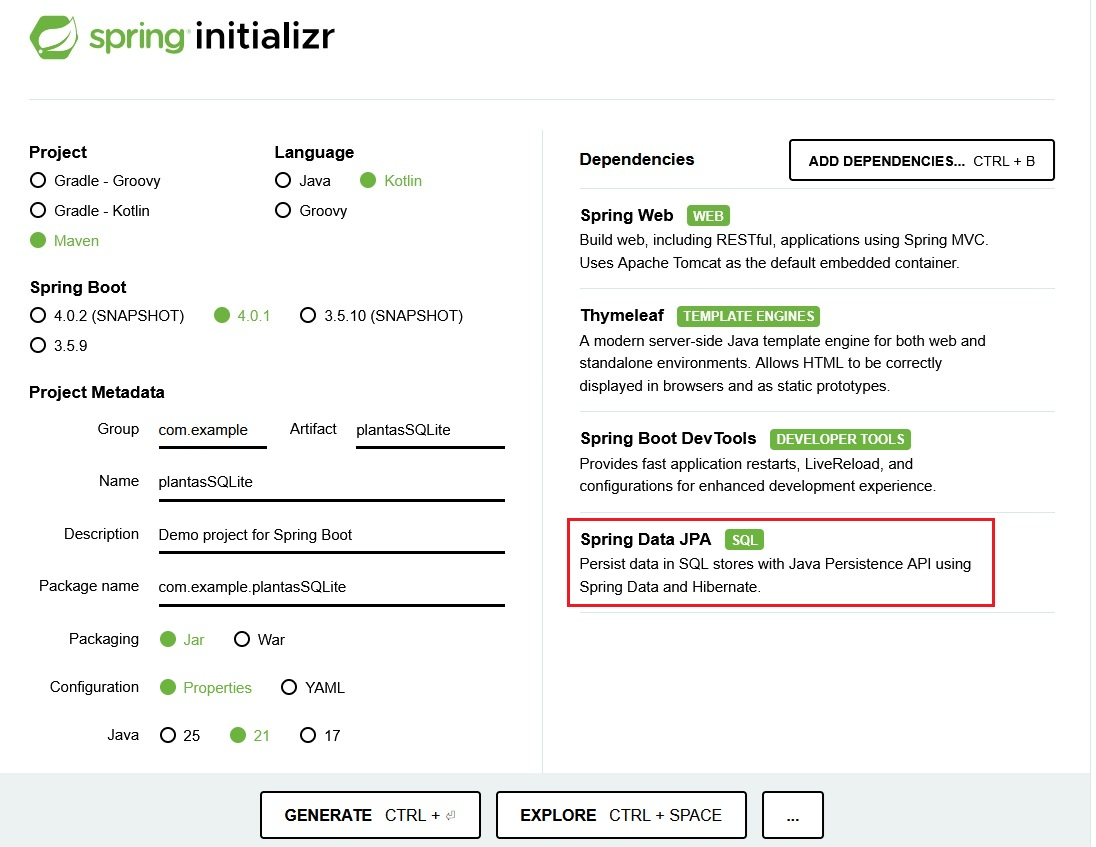
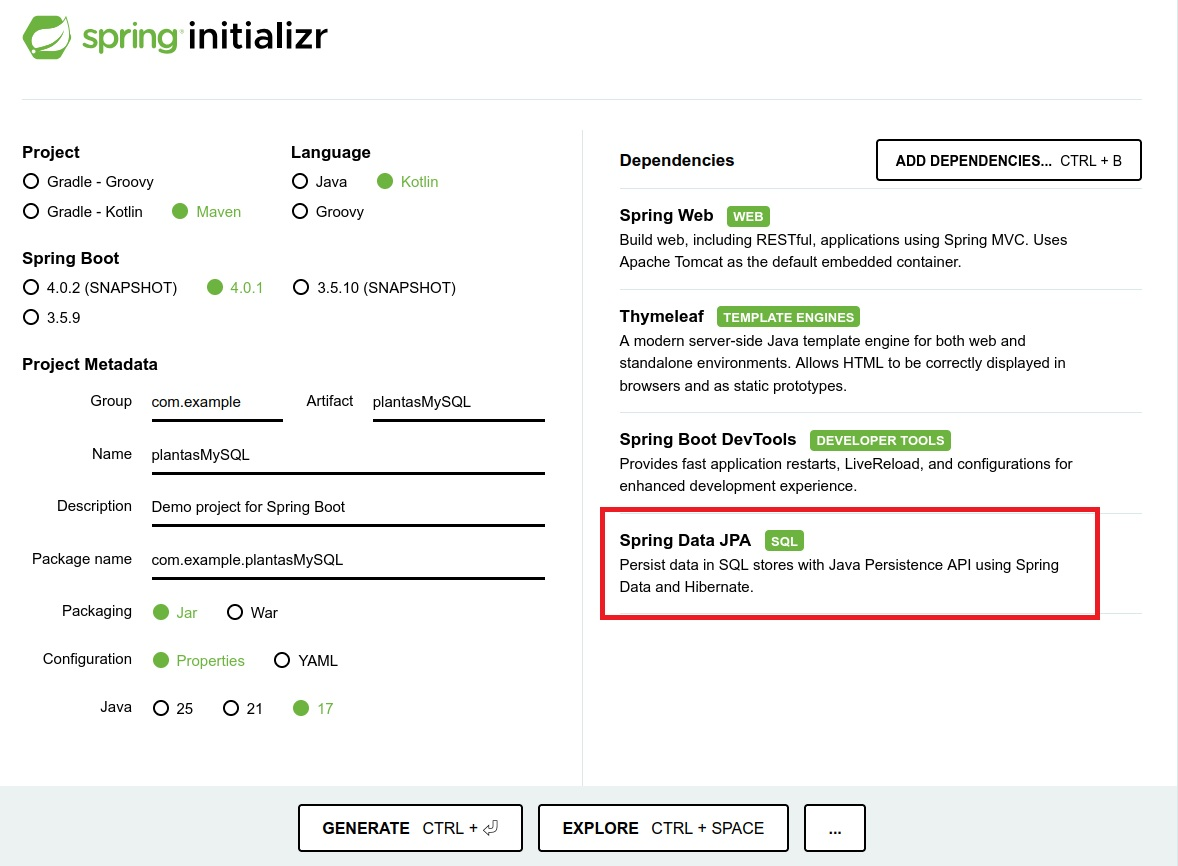
ene15

diff --git a/docs/4_Componentes.md b/docs/4_Componentes.md
@@ -1561,19 +1561,19 @@ Este mismo ejemplo utilizando convención de nombres quedaría así:
 * **findByJardinIdJardin:** Utiliza la convención de nombres para especificar que se desean encontrar plantas basándose en el idJardin del jardín asociado. Los nombres de los parámetros reflejan claramente los campos utilizados en la consulta.
 
 
-<!--
-<span class="mis_ejemplos">Ejemplo 4: CRUD con JPA y SQLite</span>
 
-En este proyecto vamos a almacenar la información de nuestras plantas en una BD SQLite y utilizar JPA para las operaciones CRUD. Los pasos para desarrollar la aplicación son los siguientes:
+<span class="mis_ejemplos">Ejemplo 4: CRUD con JPA y MySQL</span>
+
+En este proyecto vamos a almacenar la información de nuestras plantas en una BD MySQL y utilizar JPA para las operaciones CRUD. Los pasos para desarrollar la aplicación son los siguientes:
 
 
 <span class="mi_sombreado">**PASO 1: Crear el proyecto**</span>
 
-Creamos un nuevo proyecto llamado `plantasSQLite` utilizando Spring Initializr. En este caso añadimos la dependencia JPA como se ve en la imagen siguiente:
+Creamos un nuevo proyecto llamado `plantasMySQL` utilizando Spring Initializr. En este caso añadimos la dependencia JPA como se ve en la imagen siguiente:
 
 ![Spring 13](img/spring/spring13.jpg)
 
-Hay que tener cuidado si copiamos fragmentos de código del anterior ejemplo ya que habrá que cambiar en los imports `com.example.plantasCSV` por `com.example.plantasSQLite`
+Hay que tener cuidado si copiamos fragmentos de código del anterior ejemplo ya que habrá que cambiar en los imports `com.example.plantasCSV` por `com.example.plantasMySQL`
 
 
 <span class="mi_sombreado">**PASO 2: Añadir dependencias y configuración**</span>
@@ -1581,24 +1581,31 @@ Hay que tener cuidado si copiamos fragmentos de código del anterior ejemplo ya 
 Añadimos las siguientes líneas al archivo `pom.xml` dentro del bloque `<dependencies>`:
 
 ```xml
-<!-- SQLite Dependencies -->
+<!-- MySQL Connector -->
 <dependency>
-    <groupId>org.xerial</groupId>
-    <artifactId>sqlite-jdbc</artifactId>
-</dependency>
-<dependency>
-    <groupId>org.hibernate.orm</groupId>
-    <artifactId>hibernate-community-dialects</artifactId>
+    <groupId>com.mysql</groupId>
+    <artifactId>mysql-connector-j</artifactId>
+    <scope>runtime</scope>
 </dependency>
 ```
 
-Añadimos las siguientes líneas al archivo `application.properties`:
+Añadimos las siguientes líneas al archivo `application.properties` sustituyendo `BD` por el nombre de nuestra base de datos, `user` por el nombre de usuario y `pass` por la contraseña (los que creamos al montar el servidor y crear la base de datos):
 
 
 ```properties
-spring.datasource.url=jdbc:sqlite:plantas.db
-spring.datasource.driver-class-name=org.sqlite.JDBC 
-spring.jpa.database-platform=org.hibernate.community.dialect.SQLiteDialect
+# ===============================
+# DATASOURCE (MySQL)
+# ===============================
+spring.datasource.url=jdbc:mysql://localhost:3306/nom_BD?useSSL=false&allowPublicKeyRetrieval=true
+spring.datasource.username=user
+spring.datasource.password=pass
+spring.datasource.driver-class-name=com.mysql.cj.jdbc.Driver
+
+
+# ===============================
+# JPA / HIBERNATE
+# ===============================
+spring.jpa.database-platform=org.hibernate.dialect.MySQLDialect
 spring.jpa.hibernate.ddl-auto=update
 spring.jpa.show-sql=true
 ```
@@ -1608,18 +1615,18 @@ spring.jpa.show-sql=true
 
 Ahora nuestra clase Planta debe ser una entidad JPA. En Kotlin, JPA necesita un constructor vacío, por tanto, debemos asignar valores por defecto a todos los campos de la data class para que Kotlin genere ese constructor automáticamente.
 
-El contenido del archivo `src/main/kotlin/com/example/plantas/model/Planta.kt` es el siguiente:
+El contenido del archivo `src/main/kotlin/com/example/plantasMySQL/model/Planta.kt` es el siguiente:
 
 ```kotlin
-package com.example.plantasSQLite.model
+package com.example.plantasMySQL.model
 import jakarta.persistence.*
 
 @Entity
 @Table(name = "plantas")
 data class Planta(
-@Id
-@GeneratedValue(strategy = GenerationType.IDENTITY)
-var id_planta: Long? = null,
+    @Id
+    @GeneratedValue(strategy = GenerationType.IDENTITY)
+    var id_planta: Int? = null,
 
     @Column(nullable = false)
     var nombre: String = "",
@@ -1638,43 +1645,80 @@ var id_planta: Long? = null,
 
 <span class="mi_sombreado">**PASO 4: Añadir el repositorio**</span>
 
-El contenido del archivo `src/main/kotlin/com/example/plantas/repository/PlantaRepository.kt` es el siguiente:
+El contenido del archivo `src/main/kotlin/com/example/plantasMySQL/repository/PlantaRepository.kt` es el siguiente:
 
 ```kotlin
-package com.example.plantasSQLite.repository
+package com.example.plantasMySQL.repository
 
-import com.example.plantasSQLite.model.Planta
+import com.example.plantasMySQL.model.Planta
 import org.springframework.data.jpa.repository.JpaRepository
 import org.springframework.stereotype.Repository
 
 @Repository
-interface PlantaRepository : JpaRepository<Planta, Long>
+interface PlantaRepository : JpaRepository<Planta, Int>
 ```
 
 
 <span class="mi_sombreado">**PASO 5: Añadir el servicio**</span>
 
-El código del servicio se simplifica enormemente (ahora llamará a los métodos de PlantaRepository). El contenido del archivo `src/main/kotlin/com/example/plantas/service/PlantaService.kt` es el siguiente:
+El código del servicio se simplifica enormemente (ahora llamará a los métodos de PlantaRepository). El contenido del archivo `src/main/kotlin/com/example/plantasMySQL/service/PlantaService.kt` es el siguiente:
 
 ```kotlin
-package com.example.plantasSQLite.service
+package com.example.plantasMySQL.service
 
-import com.example.plantasSQLite.model.Planta
-import com.example.plantasSQLite.repository.PlantaRepository
+import com.example.plantasMySQL.model.Planta
+import com.example.plantasMySQL.repository.PlantaRepository
 import org.springframework.stereotype.Service
+import kotlin.compareTo
+
+import java.io.File
+import kotlin.collections.map
+import kotlin.io.readLines
+import kotlin.text.split
+import kotlin.text.toDouble
+
 
 @Service
 class PlantaService(private val repository: PlantaRepository) {
 
     fun listarPlantas(): List<Planta> = repository.findAll()
 
-    fun buscarPorId(id: Long): Planta? = repository.findById(id).orElse(null)
+    fun buscarPorId(id: Int): Planta? = repository.findById(id).orElse(null)
 
     fun guardar(planta: Planta): Planta = repository.save(planta)
 
-    fun borrar(id: Long) {
+    fun borrar(id: Int) {
         if (repository.existsById(id)) {
             repository.deleteById(id)
+        }
+    }
+
+
+    fun importarDesdeCSV() {
+
+        // 1. Verificar si ya hay datos para no duplicar (opcional)
+        //if (repository.count() > 0) return
+
+        // 2. Leer el fichero (Lógica del Ejemplo 3)
+        val filePath = "src/main/resources/data/plantas.csv"
+        val file = File(filePath)
+
+        if (file.exists()) {
+            println("el fichero existe")
+            val plantasLeidas = file.readLines().map { linea ->
+                val partes = linea.split(";")
+                // 3. Crear el objeto Planta (Lógica del Ejemplo 4)
+                // IMPORTANTE: Ponemos id_planta = null para que se genere uno nuevo
+                Planta(
+                    id_planta = null,
+                    nombre = partes[1],
+                    tipo = partes[2],
+                    altura = partes[3].toDouble(),
+                    foto = partes[4]
+                )
+            }
+            // 4. Guardar todo en la BD de golpe
+            repository.saveAll(plantasLeidas)
         }
     }
 }
@@ -1683,12 +1727,12 @@ class PlantaService(private val repository: PlantaRepository) {
 
 <span class="mi_sombreado">**PASO 6: Añadir el controlador**</span>
 
-El contenido del archivo `src/main/kotlin/com/example/plantas/controller/PlantaController.kt` es el siguiente:
+El contenido del archivo `src/main/kotlin/com/example/plantasMySQL/controller/PlantaController.kt` es el siguiente:
 
 ```kotlin
-package com.example.plantasSQLite.controller
-import com.example.plantasSQLite.model.Planta
-import com.example.plantasSQLite.service.PlantaService
+package com.example.plantasMySQL.controller
+import com.example.plantasMySQL.model.Planta
+import com.example.plantasMySQL.service.PlantaService
 import org.springframework.stereotype.Controller
 import org.springframework.ui.Model
 import org.springframework.web.bind.annotation.*
@@ -1703,7 +1747,7 @@ class PlantaController(private val plantaService: PlantaService) {
     }
 
     @GetMapping("/planta/{id_planta}")
-    fun detalle(@PathVariable id_planta: Long, model: Model): String {
+    fun detalle(@PathVariable id_planta: Int, model: Model): String {
         val planta = plantaService.buscarPorId(id_planta) ?: return "errorPlanta"
         model.addAttribute("planta", planta)
         return "detallePlanta"
@@ -1718,7 +1762,7 @@ class PlantaController(private val plantaService: PlantaService) {
     }
 
     @GetMapping("/plantas/editar/{id_planta}")
-    fun editarPlanta(@PathVariable id_planta: Long, model: Model): String {
+    fun editarPlanta(@PathVariable id_planta: Int, model: Model): String {
         val planta = plantaService.buscarPorId(id_planta) ?: return "redirect:/plantas"
         model.addAttribute("planta", planta)
         model.addAttribute("titulo", "Editar Planta")
@@ -1732,10 +1776,28 @@ class PlantaController(private val plantaService: PlantaService) {
     }
 
     @GetMapping("/plantas/borrar/{id_planta}")
-    fun borrarPlanta(@PathVariable id_planta: Long): String {
+    fun borrarPlanta(@PathVariable id_planta: Int): String {
         plantaService.borrar(id_planta)
         return "redirect:/plantas"
     }
+
+    /*
+        // 1. Ruta para mostrar la página de inicio (index.html)
+        @GetMapping("/")
+        fun inicio(): String {
+            return "index"
+        }
+    */
+
+
+    // 2. Ruta para ejecutar la importación
+    @GetMapping("/importar")
+    fun importarDatos(): String {
+        plantaService.importarDesdeCSV() // <--- Tienes que crear este método en el Service como hablamos antes
+        return "redirect:/plantas" // Al terminar, nos lleva a la lista para ver el resultado
+    }
+
+
 }
 ```
 
@@ -1749,7 +1811,7 @@ Todos estos archivos los podemos copiar del proyecto del ejemplo anterior, son l
 
 <span class="mi_sombreado">**PASO 8: Comprobar y ejecutar**</span>
 
-Al ejecutar la aplicación `PlantaApplication.kt`, por primera vez veremos en la consola mensajes de Hibernate: `Hibernate: create table plantas (...)` que indican que se ha creado la BD llamada `florabotanica.db` en en la raíz del proyecto con la tabla `plantas`.
+Al ejecutar la aplicación `PlantaApplication.kt`, por primera vez veremos en la consola mensajes de Hibernate: `Hibernate: create table plantas (...)` que indican que se ha creado la tabla `plantas` dentro de la base de datos llamada `florabotanica.db`.
 
 Al abrir en el navegador en http://localhost:8080/plantas inicialmente la tabla plantas estará vacía y veremos lo siguiente:
 
@@ -1760,21 +1822,23 @@ Podemos añadir tantas plantas como queramos con el botón `Agregar Nueva Planta
 
 
 !!! success "Prueba y analiza el ejemplo 4"
-    1. Crea un proyecto Spring Boot llamado `plantasSQLite` utilizando Spring Initializr.
-    2. Prueba el código del ejemplo, verifica que funciona correctamente y pregunta tus dudas.
+    1. Monta un servidor MySQL en Docker.
+    2. Crea un proyecto Spring Boot llamado `plantasMySQL` utilizando Spring Initializr.
+    3. Prueba el código del ejemplo, verifica que funciona correctamente y pregunta tus dudas.
 
--->
 
-<!--
+
+
 
 !!! warning "Práctica 2: Trabaja en tu aplicación"
     1. Crea un nuevo proyecto Spring Boot (con el nombre de tu aplicación) utilizando Spring Initializr.
-    2. Tu aplicación tendrá una vista principal con las opciones siguientes:
-        - Importar información: Leerá información de un fichero CSV y la guardará en una tabla de una BD SQLite.
-        - CRUD: funcionará como el ejemplo 4 con las operaciones CRUD sobre la BD SQLite.
+    2. Tu aplicación tendrá una vista principal (index.html) con las opciones siguientes:
+        - Importar información: Leerá información de un fichero CSV y la guardará en una tabla de una BD MySQL.
+        - CRUD: funcionará como el ejemplo 4 con las operaciones CRUD sobre la BD MySQL.
     3. Modifica el aspecto de tu aplicación aplicando alguna característica de `bootstrap` para que el resultado quede personalizado a tu gusto.
 
 
+<!--
 
 
 ### 4.4.1. Spring Data MongoDB
